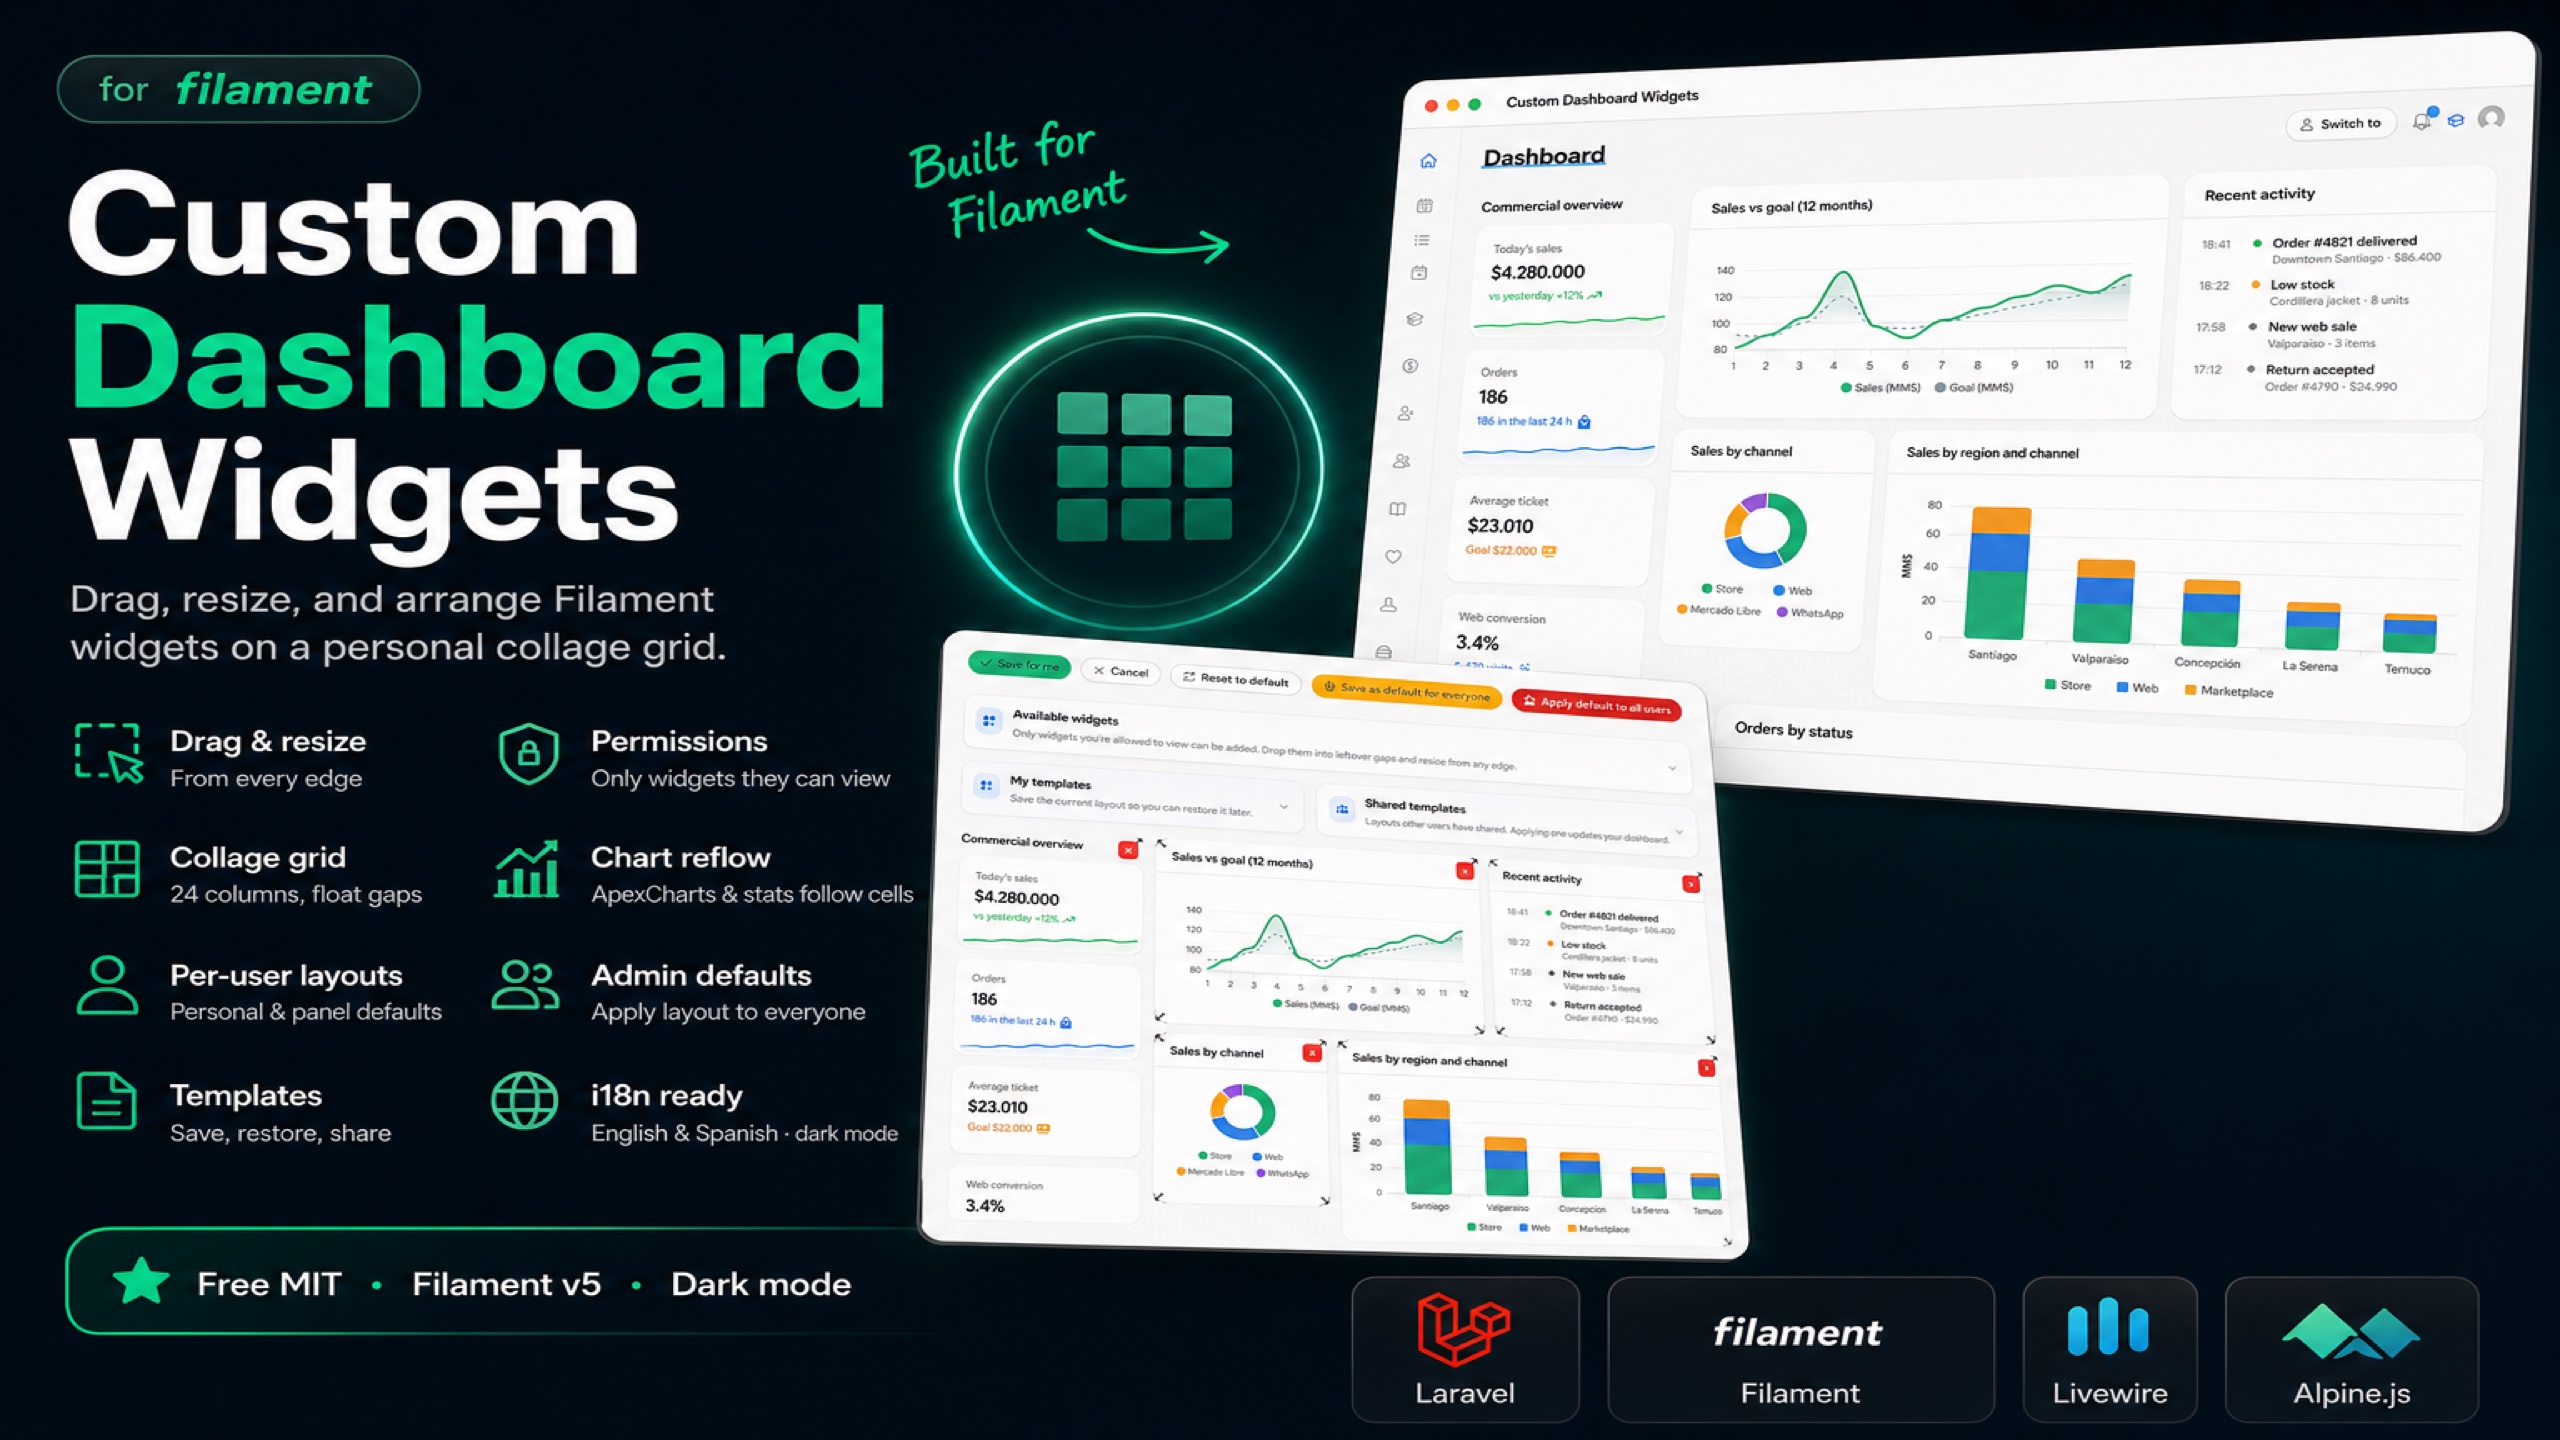
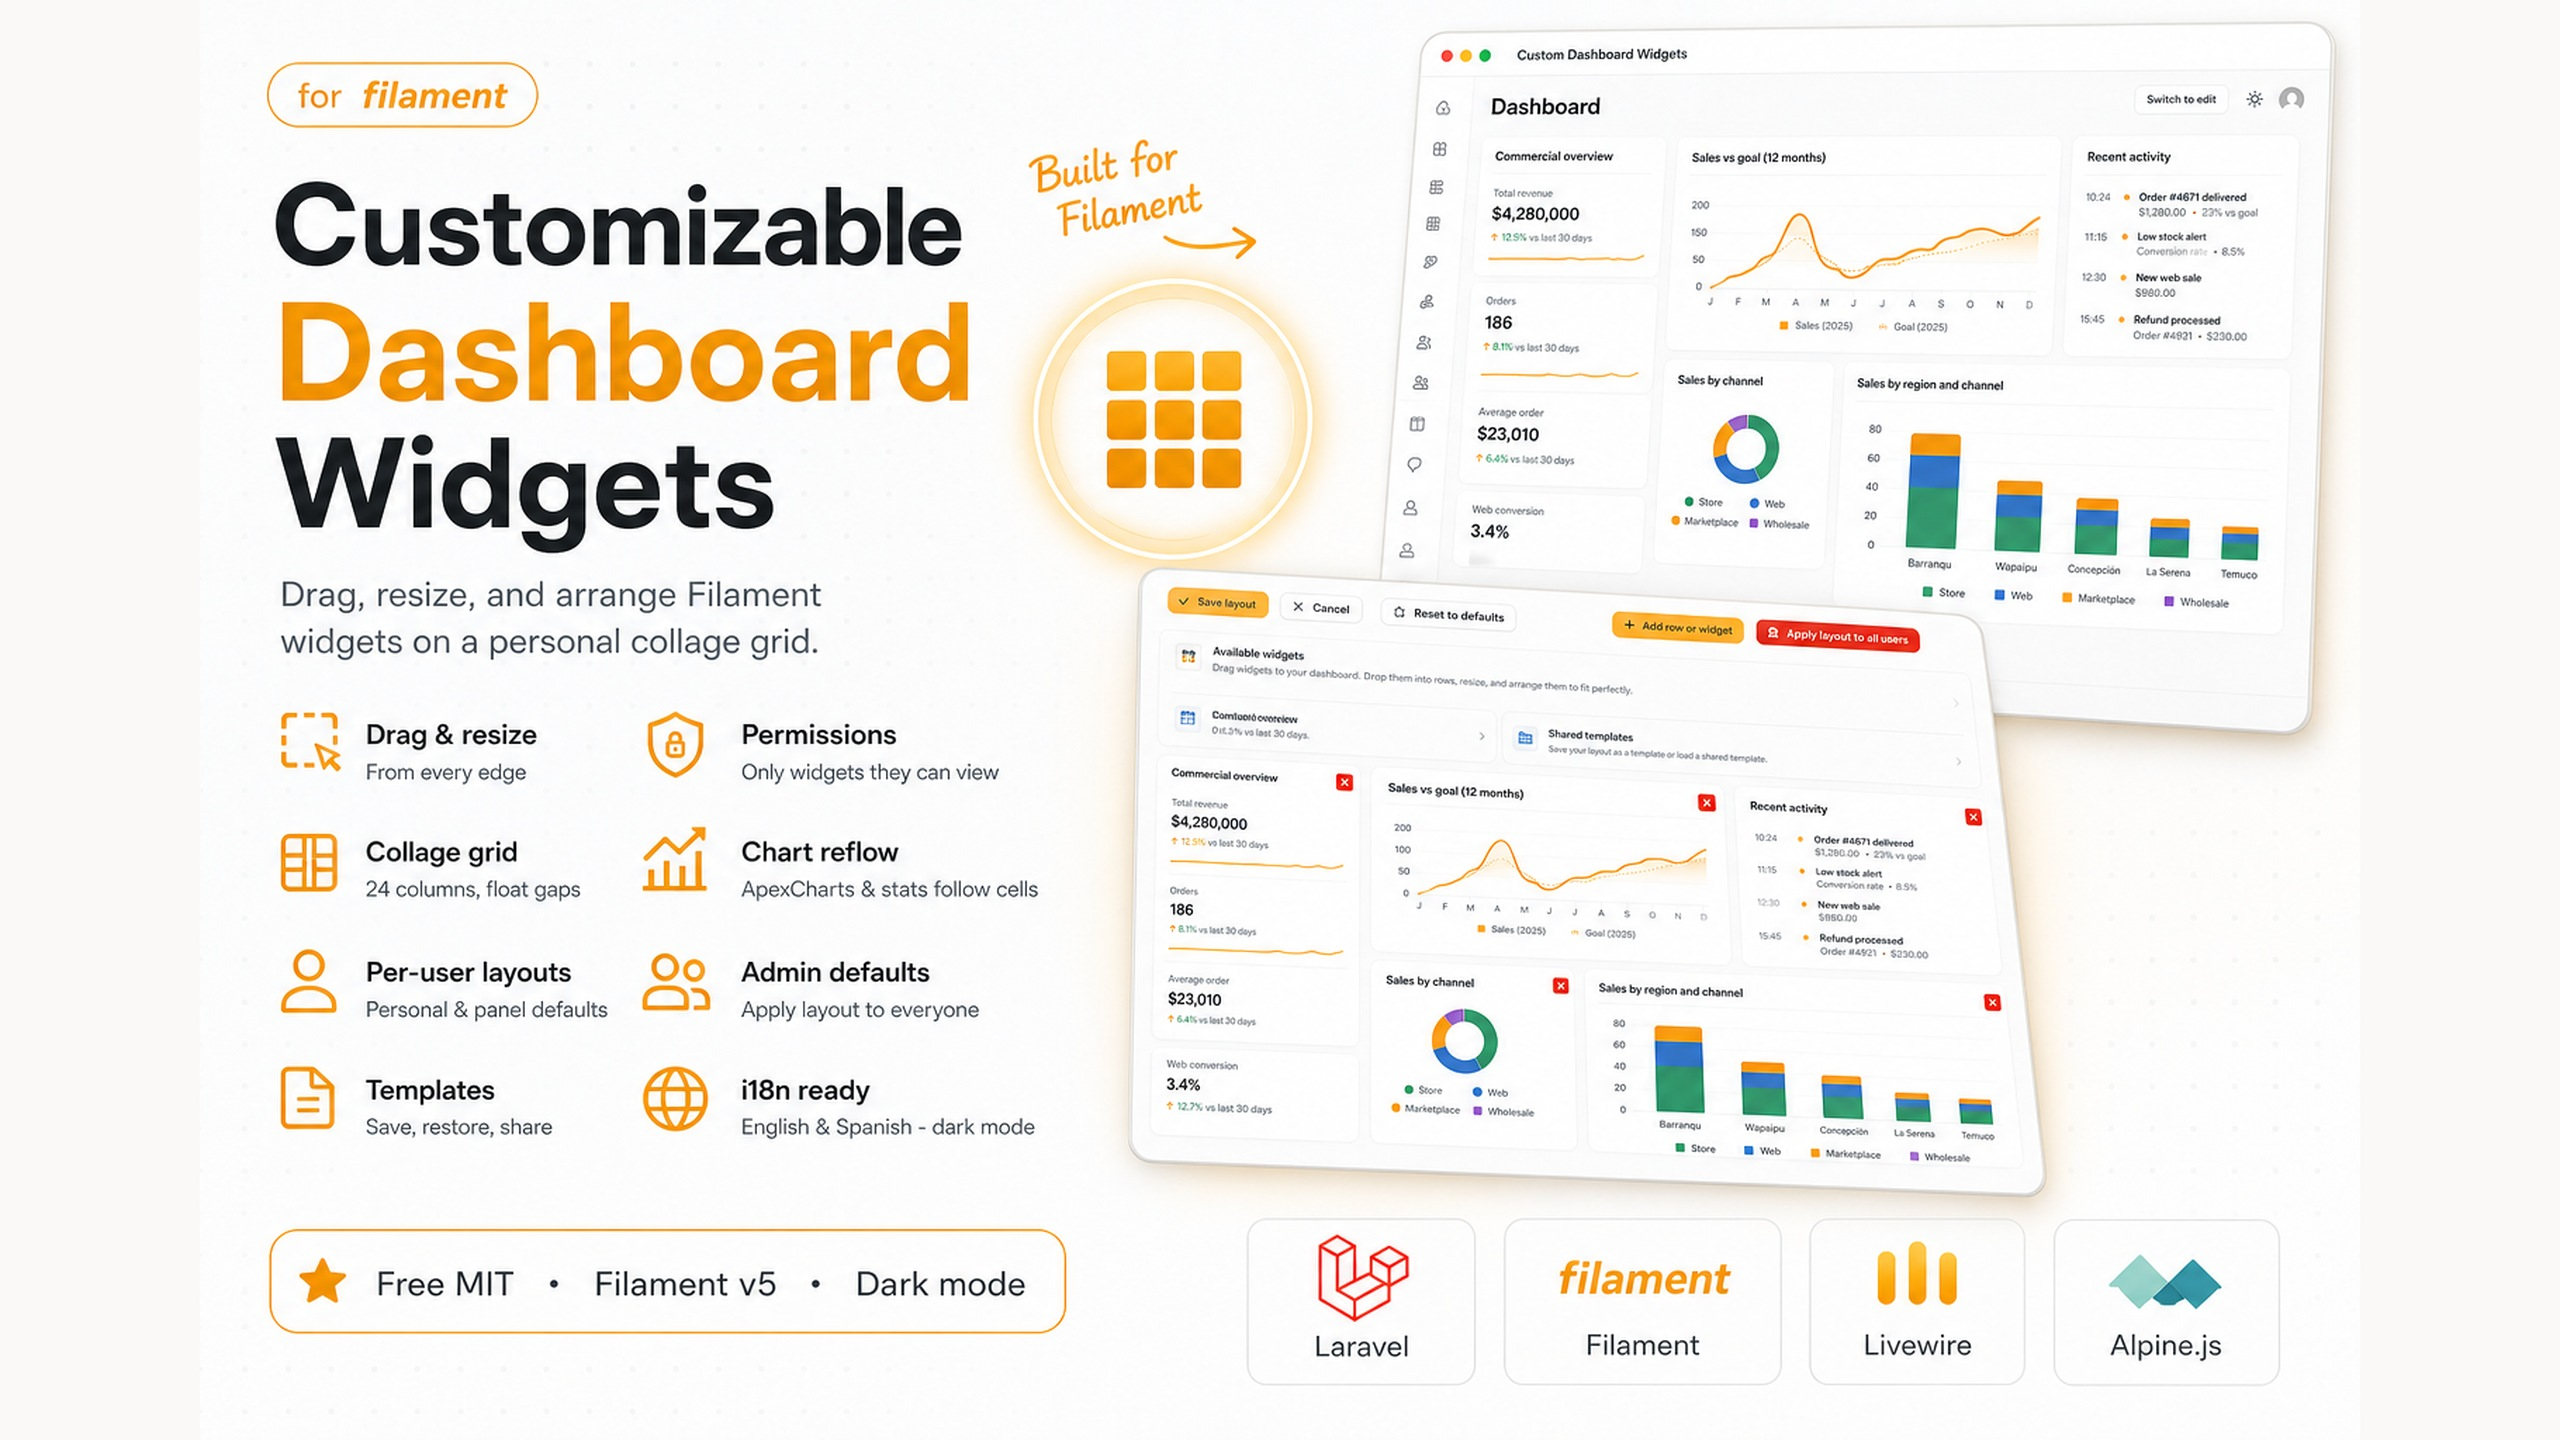
Rebrand to Customizable Dashboard Widgets with light cover art.
Distinguish from Filament's official Custom Dashboards plugin and ship
directory cover/thumbnail in a light Filament amber palette.

diff --git a/README.md b/README.md
@@ -1,14 +1,14 @@
 <div class="filament-hidden">
 
-![Custom Dashboard Widgets](images/filament-directory-cover.jpg)
+![Customizable Dashboard Widgets](images/filament-directory-cover.jpg)
 
-# Custom Dashboard Widgets
+# Customizable Dashboard Widgets
 
 </div>
 
-# Custom Dashboard Widgets
+# Customizable Dashboard Widgets
 
-![Custom Dashboard Widgets](images/custom-widgets.gif)
+![Customizable Dashboard Widgets](images/custom-widgets.gif)
 
 **Customize Filament dashboards: drag, resize, and arrange widgets.**
 
@@ -16,7 +16,7 @@ Give every Filament user a personal desktop: add widgets, drag them into place, 
 
 Compatible with **Filament v5** · PHP **8.2+** · **English & Spanish** · **Dark mode** · **Free (MIT)**
 
-![Custom Dashboard Widgets cover](images/filament-directory-cover.jpg)
+![Customizable Dashboard Widgets cover](images/filament-directory-cover.jpg)
 
 ![Plugins list thumbnail](images/filament-directory-thumbnail.jpg)
 

diff --git a/FILAMENT_DIRECTORY.md b/FILAMENT_DIRECTORY.md
@@ -6,8 +6,8 @@ Use these when submitting https://filamentphp.com/plugins
 
 | Field | Value |
 |---|---|
-| **Name** | `Custom Dashboard Widgets` |
-| **Slug** | `jrg7-custom-dashboard-widgets` (or auto from author + name) |
+| **Name** | `Customizable Dashboard Widgets` |
+| **Slug** | `jrg7-customizable-dashboard-widgets` |
 | **GitHub repository** | `Johnrivera7/filament-custom-dashboard-widgets` |
 | **Composer package name** | `johnrivera7/filament-custom-dashboard-widgets` |
 | **Description** | Let users customize Filament dashboards: drag, resize, and arrange widgets on a permission-aware collage grid. |

diff --git a/CHANGELOG.md b/CHANGELOG.md
@@ -2,6 +2,10 @@
 
 All notable changes to `filament-widget-grid` will be documented in this file.
 
+## 1.0.1 - 2026-08-22
+
+- Rebrand display name to **Customizable Dashboard Widgets** (Filament directory) to distinguish from the official Custom Dashboards plugin.
+
 ## 1.0.0 - 2026-08-20
 
 - Initial release for Filament v5: permission-aware widget catalog, GridStack drag-and-drop, resize handles, per-user layouts, default layouts, lock, and shareable templates.
